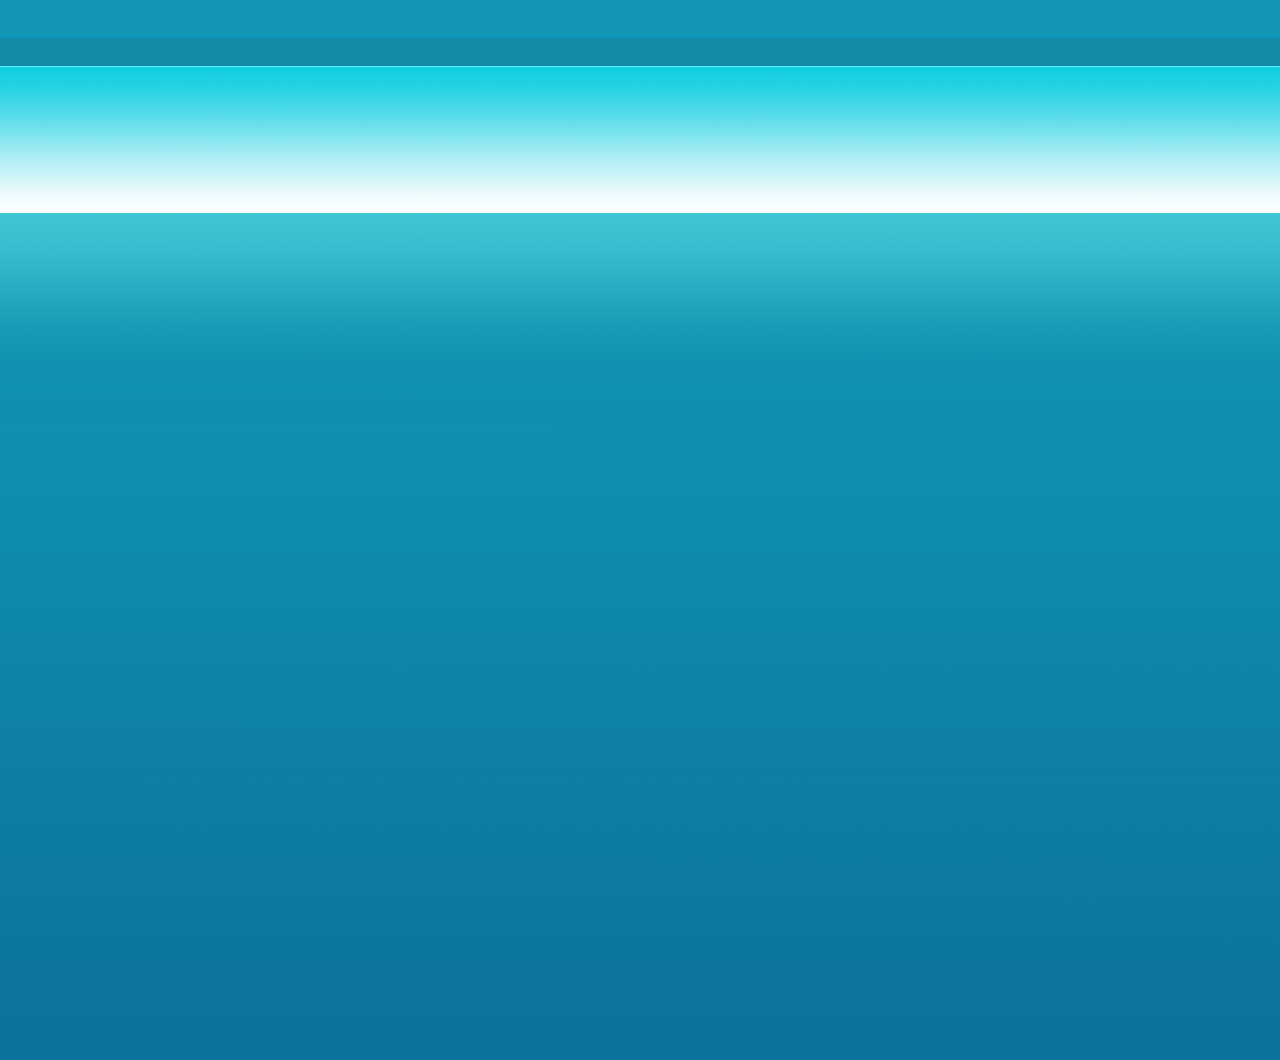
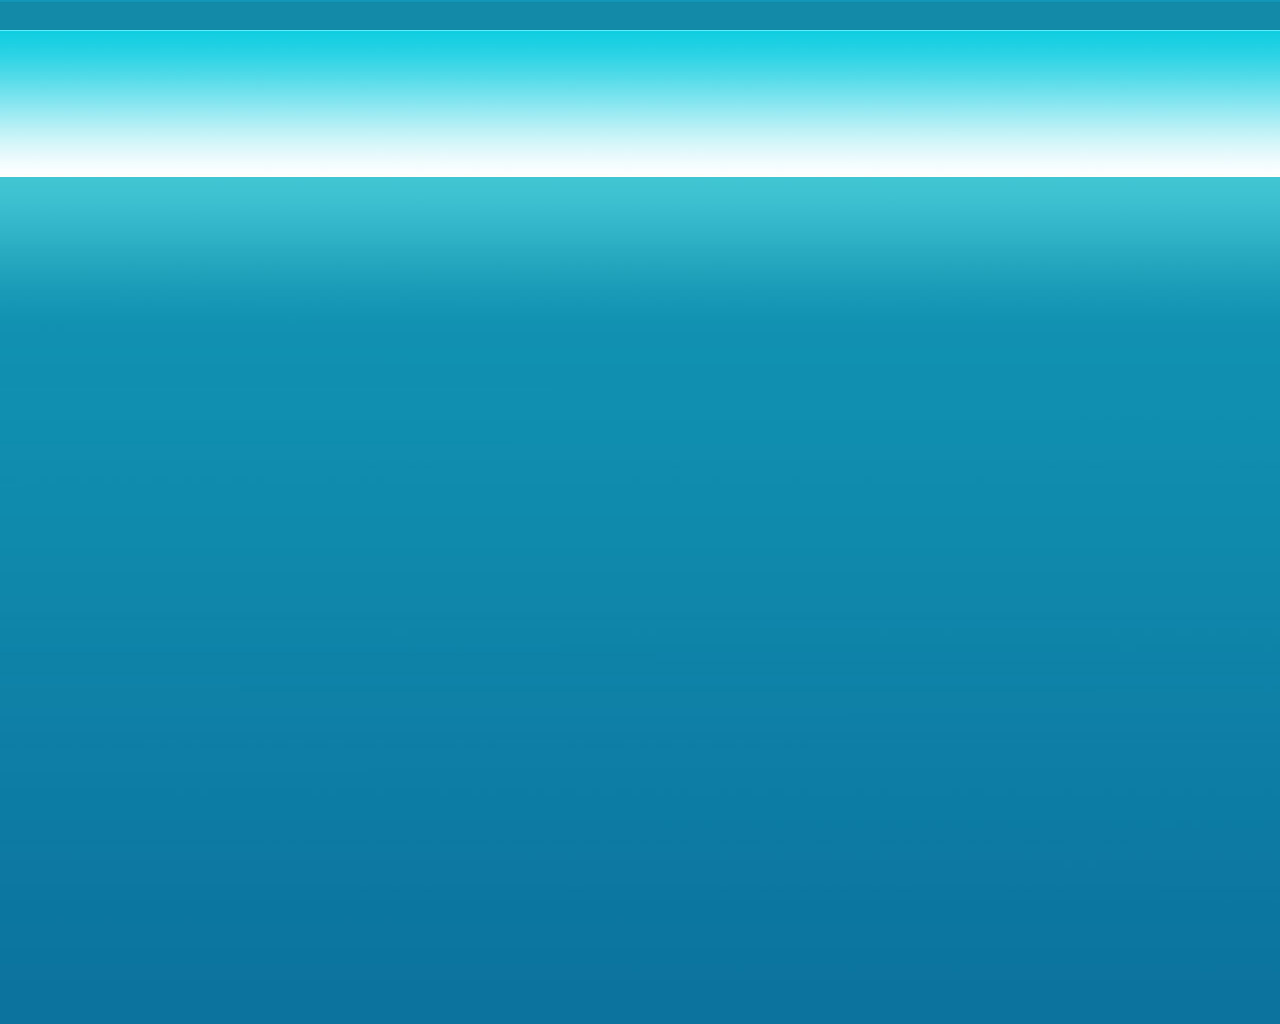
changes on module4

Changed region(s): [[0.0, 0.0312, 1.0, 0.2188]]

diff --git a/css/style.css b/css/style.css
@@ -10,7 +10,7 @@ body {
 /*============= MAIN ==================*/
 .main {
 	width: 1000px;
-	margin: 38px auto 0;
+	margin: 0 auto;
 	background-color: #fff;	
 	-webkit-box-shadow: 0 0 10px 2px #031d28;
 	   -moz-box-shadow: 0 0 10px 2px #031d28;
